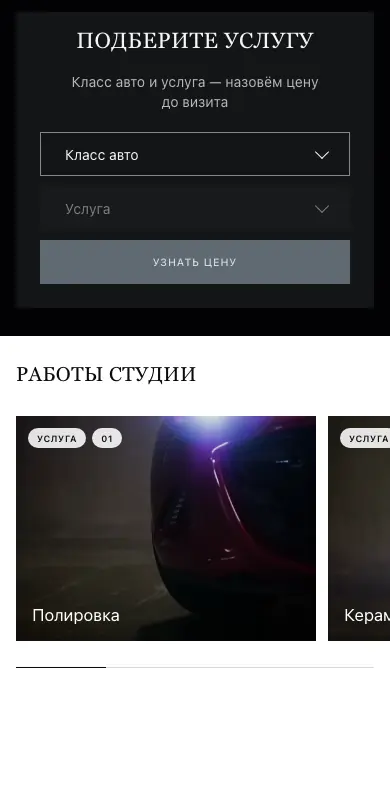
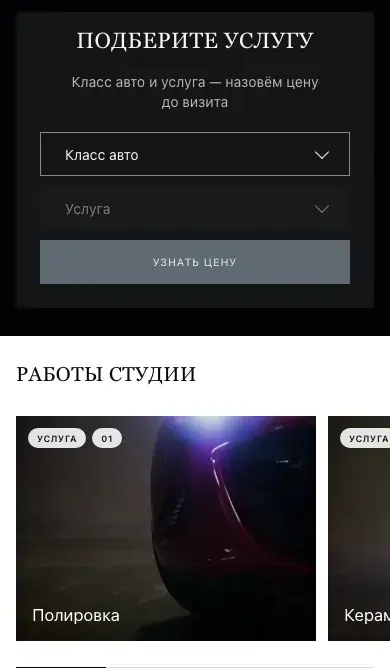
Правки по проверке: набросок во «Первом экране» и прокрутка «Всего сайта» со смягчением по отрезкам (набросок меньше секунды); на 320 не вылезают «Опубликован», плашка Карт и «Показы»; заявки короче; второй кадр черновика без белого низа; сниппет через типограф, «делаем ли» неразрывно; телефон со ст

diff --git a/src/components/ProcessVisuals.tsx b/src/components/ProcessVisuals.tsx
@@ -34,11 +34,13 @@ export function CallVisual() {
   const { ref, live, seen, still } = useLive()
 
   return (
-    <div ref={ref} className="absolute inset-0 flex flex-col items-center justify-center gap-3 px-5">
+    <div ref={ref} className="absolute inset-0 flex flex-col items-center justify-center gap-2 px-4 min-[360px]:gap-3 min-[360px]:px-5">
+      {/* data-light: светлая плашка внутри тёмной секции — шапка над ней становится светлой (Nav.tsx) */}
       <motion.div
+        data-light
         {...enter(seen, still, 'translateY(16px)', 'translateY(0px)')}
         transition={{ duration: 0.7, ease: EASE }}
-        className="w-full max-w-[270px] rounded-[18px] bg-[#f7f5f2] p-3.5 text-ink shadow-[0_24px_50px_-20px_rgba(0,0,0,.7)]"
+        className="w-full max-w-[270px] rounded-[18px] bg-[#f7f5f2] p-3 text-ink shadow-[0_24px_50px_-20px_rgba(0,0,0,.7)] min-[360px]:p-3.5"
       >
         <div className="flex items-center gap-3">
           <img src={avatar} alt="" loading="lazy" width={80} height={80} className="h-10 w-10 shrink-0 rounded-full object-cover" />
@@ -57,7 +59,7 @@ export function CallVisual() {
               className="h-full w-[3px] origin-center rounded-full bg-ink/70"
               initial={{ transform: `scaleY(${h * 0.6})` }}
               animate={live ? { transform: [`scaleY(${h * 0.35})`, `scaleY(${h})`, `scaleY(${h * 0.5})`] } : { transform: `scaleY(${h * 0.6})` }}
-              transition={live ? { duration: 0.9 + (i % 4) * 0.18, repeat: Infinity, repeatType: 'mirror', ease: 'easeInOut' } : { duration: 0.3 }}
+              transition={live ? { duration: 0.9 + (i % 4) * 0.18, repeat: Infinity, repeatType: 'reverse', ease: 'easeInOut' } : { duration: 0.3 }}
             />
           ))}
         </div>
@@ -75,9 +77,10 @@ export function CallVisual() {
       </motion.div>
       {/* Что присылает клиент в первый день: ссылку на Карты */}
       <motion.div
+        data-light
         {...enter(seen, still, 'translateY(12px)', 'translateY(0px)')}
         transition={{ delay: 0.35, duration: 0.6, ease: EASE }}
-        className="flex max-w-[270px] items-center gap-2 self-center rounded-[14px] rounded-br-[5px] bg-[#e9e6e1] px-3 py-2 text-[12.5px] text-ink"
+        className="flex max-w-[270px] items-center gap-2 self-center whitespace-nowrap rounded-[14px] rounded-br-[5px] bg-[#e9e6e1] px-3 py-2 text-[12px] text-ink min-[360px]:text-[12.5px]"
       >
         <MapPin size={14} className="shrink-0 text-rust" />
         Ссылка на Яндекс Карты
@@ -87,13 +90,13 @@ export function CallVisual() {
 }
 
 /** Мини-окно браузера: три точки и полоска адреса */
-function Chrome({ light = false, domain }: { light?: boolean; domain?: string }) {
+function Chrome({ domain }: { domain: string }) {
   return (
-    <div className={`flex h-[22px] items-center gap-1 px-2.5 ${light ? 'bg-[#ecebe9]' : 'bg-[#1d1d1f]'}`}>
+    <div className="flex h-[24px] items-center gap-1 bg-[#1d1d1f] px-2.5">
       <span className="h-[6px] w-[6px] rounded-full bg-[#ff5f57]" />
       <span className="h-[6px] w-[6px] rounded-full bg-[#febc2e]" />
       <span className="h-[6px] w-[6px] rounded-full bg-[#28c840]" />
-      {domain && <span className={`mx-auto truncate rounded px-2 text-[8.5px] ${light ? 'bg-white text-ink-soft' : 'bg-white/10 text-white/60'}`}>{domain}</span>}
+      <span className="mx-auto truncate rounded bg-white/10 px-2 text-[10px] text-white/75">{domain}</span>
     </div>
   )
 }
@@ -130,7 +133,8 @@ export function DraftVisual() {
                   }
                 : { transform: 'translateX(101%)', opacity: 1 }
             }
-            transition={live ? { duration: 8, times: [0, 0.05, 0.26, 0.9, 0.905, 0.91, 0.97, 1], ease: 'easeInOut', repeat: Infinity } : { duration: 0 }}
+            // Смягчение по отрезкам: одно ease на все ключи растягивает удержания и набросок висит треть круга
+            transition={live ? { duration: 8, times: [0, 0.05, 0.26, 0.9, 0.905, 0.91, 0.97, 1], ease: ['linear', 'easeInOut', 'linear', 'linear', 'linear', 'easeOut', 'linear'], repeat: Infinity } : { duration: 0 }}
           >
             <Sketch />
             <span className="absolute inset-y-0 left-0 w-[2px] bg-[#f0a37a] shadow-[0_0_14px_2px_rgba(240,163,122,.55)]" />
@@ -181,7 +185,7 @@ export function SiteVisual() {
           <motion.div
             initial={{ transform: 'translateY(0px)' }}
             animate={live ? { transform: ['translateY(0%)', 'translateY(0%)', 'translateY(-78%)', 'translateY(-78%)', 'translateY(0%)'] } : { transform: 'translateY(0%)' }}
-            transition={live ? { duration: 11, times: [0, 0.12, 0.55, 0.7, 1], ease: 'easeInOut', repeat: Infinity } : { duration: 0.6 }}
+            transition={live ? { duration: 11, times: [0, 0.12, 0.55, 0.7, 1], ease: ['linear', 'easeInOut', 'linear', 'easeInOut'], repeat: Infinity } : { duration: 0.6 }}
             aria-hidden
           >
             <LongPage />
@@ -200,7 +204,7 @@ function LongPage() {
   return (
     <div className="bg-[#0b0b0c] text-white">
       <img src={draftPoster(true)} alt="" loading="lazy" width={390} height={800} className="block h-auto w-full" />
-      <img src={draftSecond()} alt="" loading="lazy" width={390} height={800} className="block h-auto w-full" />
+      <img src={draftSecond()} alt="" loading="lazy" width={390} height={668} className="block h-auto w-full" />
       <div className="bg-[#f4f3f1] px-3 pb-4 pt-3.5 text-ink">
         <p className="text-[10px] font-medium uppercase tracking-[0.12em]">Услуги и цены</p>
         <div className="mt-2 divide-y divide-ink/10">
@@ -223,7 +227,7 @@ function LongPage() {
 }
 
 /** Заявки, которые приходят по кругу в карточке запуска: пример детейлинга, выдуманный */
-const LAUNCH_LEADS = ['Полировка и керамика, суббота', 'Химчистка салона, завтра', 'Керамика в 2 слоя, на неделе']
+const LAUNCH_LEADS = ['Керамика, в субботу', 'Химчистка салона, завтра', 'Полировка, на неделе']
 
 /**
  * День 5. Адрес печатается в строке браузера, следом приходит заявка. На следующем круге адрес печатается заново,
@@ -258,8 +262,8 @@ export function LaunchVisual() {
   const shown = done ? round : round - 1
 
   return (
-    <div ref={ref} className="absolute inset-0 flex flex-col justify-center gap-4 px-5">
-      <div className="flex h-12 items-center gap-2 rounded-full bg-[#f7f5f2] px-4 text-[15px] text-ink shadow-[0_24px_50px_-20px_rgba(0,0,0,.7)]">
+    <div ref={ref} className="@container absolute inset-0 flex flex-col justify-center gap-4 px-3 min-[360px]:px-5">
+      <div data-light className="flex h-12 items-center gap-2 rounded-full bg-[#f7f5f2] px-3.5 text-[14px] text-ink shadow-[0_24px_50px_-20px_rgba(0,0,0,.7)] min-[360px]:px-4 min-[360px]:text-[15px]">
         <Lock size={14} strokeWidth={2.5} className={`shrink-0 transition-colors duration-300 ${done ? 'text-go' : 'text-muted'}`} />
         <span className="whitespace-nowrap">{DEMO_DOMAIN.slice(0, n)}</span>
         <motion.span
@@ -267,7 +271,8 @@ export function LaunchVisual() {
           animate={live && !done ? { opacity: [1, 0] } : { opacity: 0 }}
           transition={live && !done ? { duration: 0.5, repeat: Infinity, repeatType: 'reverse' } : { duration: 0.2 }}
         />
-        <span className={`ml-auto shrink-0 text-[11.5px] font-medium transition-opacity duration-300 ${done ? 'text-go opacity-100' : 'opacity-0'}`}>Опубликован</span>
+        {/* Подпись — только где хватает места; готовность и так видна по зелёному замку */}
+        <span className={`ml-auto hidden shrink-0 text-[11.5px] font-medium transition-opacity duration-300 @min-[252px]:inline ${done ? 'text-go opacity-100' : 'opacity-0'}`}>Опубликован</span>
       </div>
       {/* Уведомление приходит поверх стопки, как на экране блокировки: под ним край второго */}
       <div className="relative h-[84px]">
@@ -282,13 +287,13 @@ export function LaunchVisual() {
               className="absolute inset-x-0 top-0"
             >
               <span className="absolute inset-x-4 -bottom-2.5 h-10 rounded-[14px] bg-white/45" />
-              <div className="relative flex items-center gap-3 rounded-[16px] bg-white p-3 text-ink shadow-[0_20px_40px_-18px_rgba(0,0,0,.8)]">
+              <div data-light className="relative flex items-center gap-3 rounded-[16px] bg-white p-3 text-ink shadow-[0_20px_40px_-18px_rgba(0,0,0,.8)]">
                 <span className="grid h-10 w-10 shrink-0 place-items-center rounded-[11px] bg-[#2aabee] text-white">
                   <TgIcon size={18} />
                 </span>
                 <div className="min-w-0 flex-1">
                   <p className="flex items-baseline justify-between gap-2 text-[13.5px] font-medium leading-tight">
-                    Новая заявка <span className="shrink-0 text-[11px] font-normal text-muted">сейчас</span>
+                    Новая заявка <span className="hidden shrink-0 text-[11px] font-normal text-muted @min-[252px]:inline">сейчас</span>
                   </p>
                   <p className="mt-0.5 truncate text-[12.5px] leading-snug text-ink-soft">{LAUNCH_LEADS[shown % LAUNCH_LEADS.length]}</p>
                 </div>

diff --git a/src/components/IncludedVisuals.tsx b/src/components/IncludedVisuals.tsx
@@ -10,6 +10,7 @@ import { useEffect, useState } from 'react'
 import { nicheById } from '../data/niches'
 import { MaxBadge, TgIcon } from './Messengers'
 import { DEMO_DOMAIN, draftPoster } from '../lib/snapshot'
+import { T } from '../lib/typo'
 import { enter, useLive } from './useLive'
 
 const EASE = [0.22, 1, 0.36, 1] as const
@@ -75,7 +76,7 @@ export function DesignFan() {
       {FAN.map(({ C, to, z }, i) => (
         <motion.div
           key={i}
-          className="absolute w-[54%] max-w-[380px] overflow-hidden rounded-[10px] bg-white shadow-[0_24px_50px_-22px_rgba(28,27,26,.55),0_0_0_1px_rgba(28,27,26,.08)]"
+          className="absolute w-[54%] max-w-[380px] overflow-hidden rounded-[10px] lg:w-[46%] bg-white shadow-[0_24px_50px_-22px_rgba(28,27,26,.55),0_0_0_1px_rgba(28,27,26,.08)]"
           style={{ zIndex: z }}
           {...(still
             ? { initial: { opacity: 0, transform: to }, animate: seen ? { opacity: 1, transform: to } : undefined }
@@ -137,14 +138,18 @@ export function PhoneMock() {
         className="relative w-[52%] max-w-[270px] shrink-0 rounded-[30px] bg-[#161616] p-[6px] shadow-[0_30px_60px_-24px_rgba(28,27,26,.6),0_0_0_1px_rgba(28,27,26,.12)] lg:w-[64%] lg:max-w-[250px]"
       >
         <div className="relative overflow-hidden rounded-[24px] bg-black">
-          <div className="absolute left-1/2 top-[6px] z-10 h-[14px] w-[30%] -translate-x-1/2 rounded-full bg-black" />
+          {/* Строка состояния: чёлка сидит в ней и не режет логотип сайта на широком телефоне */}
+          <div className="relative h-[20px] bg-black lg:h-[24px]">
+            <div className="absolute left-1/2 top-[5px] h-[13px] w-[30%] -translate-x-1/2 rounded-full bg-[#161616] lg:top-[6px] lg:h-[14px]" />
+          </div>
           <img src={draftPoster(true)} alt="" loading="lazy" width={390} height={800} className="block h-auto w-full" />
           {/* Касание кнопки «Записаться на осмотр»: круг расходится и гаснет, пока телефон на экране */}
           <motion.span
             className="absolute left-1/2 top-[77%] -ml-[18px] -mt-[18px] h-9 w-9 rounded-full bg-white/70"
             initial={{ opacity: 0, transform: 'scale(.4)' }}
-            animate={live ? { opacity: [0, 0.8, 0], transform: ['scale(.4)', 'scale(.7)', 'scale(1.8)'] } : { opacity: 0, transform: 'scale(.4)' }}
-            transition={live ? { duration: 1.4, times: [0, 0.2, 1], repeat: Infinity, repeatDelay: 1.6, ease: 'easeOut' } : { duration: 0.2 }}
+            // Пауза заложена в ключи, а не в repeatDelay: так анимация уходит на композитор (WAAPI)
+            animate={live ? { opacity: [0, 0.8, 0, 0], transform: ['scale(.4)', 'scale(.7)', 'scale(1.8)', 'scale(1.8)'] } : { opacity: 0, transform: 'scale(.4)' }}
+            transition={live ? { duration: 3, times: [0, 0.093, 0.467, 1], ease: ['easeOut', 'easeOut', 'linear'], repeat: Infinity } : { duration: 0.2 }}
           />
         </div>
       </motion.div>
@@ -197,7 +202,7 @@ export function SeoSnippet() {
       <motion.div
         {...enter(seen, still, 'translateY(14px)', 'translateY(0px)')}
         transition={{ delay: 0.15, duration: 0.7, ease: EASE }}
-        className="relative ml-5 mt-5 w-[72%] max-w-[300px] overflow-hidden rounded-[14px] bg-white shadow-[0_14px_34px_-18px_rgba(28,27,26,.4)] sm:ml-6"
+        className="relative ml-5 mt-5 w-[68%] max-w-[300px] min-[360px]:w-[72%] overflow-hidden rounded-[14px] bg-white shadow-[0_14px_34px_-18px_rgba(28,27,26,.4)] sm:ml-6"
       >
         <div className="flex items-center gap-2 border-b border-line px-3.5 py-2 text-[12.5px] text-ink">
           <Search size={13} className="shrink-0 text-muted" />
@@ -211,8 +216,12 @@ export function SeoSnippet() {
               <p className="text-[11px] text-muted">{DEMO_DOMAIN}</p>
             </div>
           </div>
-          <p className="mt-2 text-[14px] font-medium leading-snug text-[#2a55c9]">Полировка, керамика и химчистка — запись онлайн</p>
-          <p className="mt-1 text-[12px] leading-[1.45] text-ink-soft">{detailing.pain}</p>
+          <p className="mt-2 text-[14px] font-medium leading-snug text-[#2a55c9]">
+            <T>Полировка, керамика и химчистка — запись онлайн</T>
+          </p>
+          <p className="mt-1 text-[12px] leading-[1.45] text-ink-soft">
+            <T>{detailing.pain}</T>
+          </p>
         </div>
       </motion.div>
     </div>

diff --git a/src/data/content.ts b/src/data/content.ts
@@ -59,11 +59,11 @@ export const included = [
 
 /** «Как работаем»: без переписки, сразу пять дней. Картинки дней — на примере детейлинга «Глянец» из генератора */
 export const process = {
-  title: 'Пять дней от\u00A0созвона до\u00A0запуска',
+  title: 'Пять рабочих дней от\u00A0созвона до\u00A0запуска',
   lead: 'Первый экран показываем до оплаты. Не понравится — расходимся без долгов',
   steps: [
     { day: 'День 1', title: 'Созвон на 15\u00A0минут', text: 'Расскажете о бизнесе и пришлёте ссылку на Карты или соцсети. Тексты и структуру берём на себя' },
-    { day: 'День 2', title: 'Первый экран', text: 'Показываем, как будет выглядеть ваш сайт. Решаете, делаем ли дальше' },
+    { day: 'День 2', title: 'Первый экран', text: 'Показываем, как будет выглядеть ваш сайт. Решаете, делаем\u00A0ли дальше' },
     { day: 'Дни 3–4', title: 'Весь сайт', text: 'Услуги, цены, работы и форма заявки. Смотрите по ссылке в процессе и правите' },
     { day: 'День 5', title: 'Запуск', text: 'Домен, Метрика, Вебмастер. Сайт уходит в поиск, заявки приходят вам на почту и в мессенджеры' },
   ],
@@ -75,7 +75,7 @@ export const pricing = {
   text: 'В базовую цену входит всё, что ниже. Больше страниц услуг или калькулятор посчитаем заранее, до начала работ',
   /** Сравнение под заголовком, как у durable: сначала бесплатный первый экран, потом весь сайт */
   free: { label: 'Первый экран', value: '0 ₽', note: 'показываем до оплаты' },
-  full: { label: 'Весь сайт под ключ', note: `за ${brand.days} дней` },
+  full: { label: 'Весь сайт под ключ', note: `за ${brand.days} рабочих дней` },
 }
 
 export const about = {

diff --git a/src/components/Process.tsx b/src/components/Process.tsx
@@ -56,9 +56,15 @@ function useRail() {
       })
     }
     el.addEventListener('scroll', onScroll, { passive: true })
+    // Лента в фокусе с клавиатуры (листается стрелками) только когда она правда листается: на широком экране это сетка
+    const ro = new ResizeObserver(() => {
+      el.tabIndex = el.scrollWidth > el.clientWidth + 1 ? 0 : -1
+    })
+    ro.observe(el)
     return () => {
       el.removeEventListener('scroll', onScroll)
       cancelAnimationFrame(raf)
+      ro.disconnect()
     }
   }, [])
   return { ref, at }
@@ -86,6 +92,8 @@ export function Process() {
           {/* Лента на телефоне выходит под края экрана, чтобы следующая карточка выглядывала и было видно, что листается */}
           <div
             ref={ref}
+            role="region"
+            aria-label="Пять дней по шагам"
             className="-mx-4 flex snap-x snap-mandatory scroll-px-4 gap-3 overflow-x-auto px-4 pb-1 [scrollbar-width:none] sm:mx-0 sm:grid sm:snap-none sm:grid-cols-2 sm:overflow-visible sm:px-0 lg:grid-cols-4 lg:gap-4 [&::-webkit-scrollbar]:hidden"
           >
             {process.steps.map((s, i) => (
@@ -94,9 +102,10 @@ export function Process() {
               </div>
             ))}
           </div>
-          <div aria-hidden className="mt-5 flex justify-center gap-1.5 sm:hidden">
+          <div aria-hidden className="mt-5 flex justify-center sm:hidden">
             {process.steps.map((s, i) => (
-              <span key={s.title} className={`h-1.5 rounded-full transition-[width,background-color] duration-300 ${i === at ? 'w-5 bg-[#f0a37a]' : 'w-1.5 bg-white/25'}`} />
+              // Ширина у всех одна, неактивные сжаты через transform: анимируется не геометрия
+              <span key={s.title} className={`h-1.5 w-5 rounded-full transition-[transform,background-color] duration-300 ${i === at ? 'bg-[#f0a37a]' : 'scale-x-[.3] bg-white/25'}`} />
             ))}
           </div>
         </Reveal>

diff --git a/src/components/Pricing.tsx b/src/components/Pricing.tsx
@@ -73,8 +73,8 @@ function PriceCompare() {
       <div>
         <p className="text-[15px] text-ink-soft">{full.label}</p>
         <p className="display mt-3 whitespace-nowrap text-[64px] leading-none sm:text-[88px]">
-          <span className="mr-2 text-[0.42em] text-ink-soft">от</span>
-          {from}
+          {/* Пробел настоящий: без него скринридер и снимок пререндера читают «от30 000 ₽» */}
+          <span className="text-[0.42em] text-ink-soft">от</span> {from}
         </p>
         <p className="mt-4 text-[15px] text-muted">
           <T>{full.note}</T>

diff --git a/src/components/Nav.tsx b/src/components/Nav.tsx
@@ -55,7 +55,8 @@ export function Nav() {
       const hit = document
         .elementsFromPoint(r.left + r.width / 2, r.top + r.height / 2)
         .find((e) => !header.current?.contains(e) && !e.closest('[data-nav-layer]'))
-      return Boolean(hit?.closest('[data-dark]'))
+      // Светлая плашка внутри тёмной секции ([data-light], например карточка звонка) — шапка над ней светлая
+      return Boolean(hit?.closest('[data-dark],[data-light]')?.hasAttribute('data-dark'))
     }
     const check = () => {
       raf = 0
